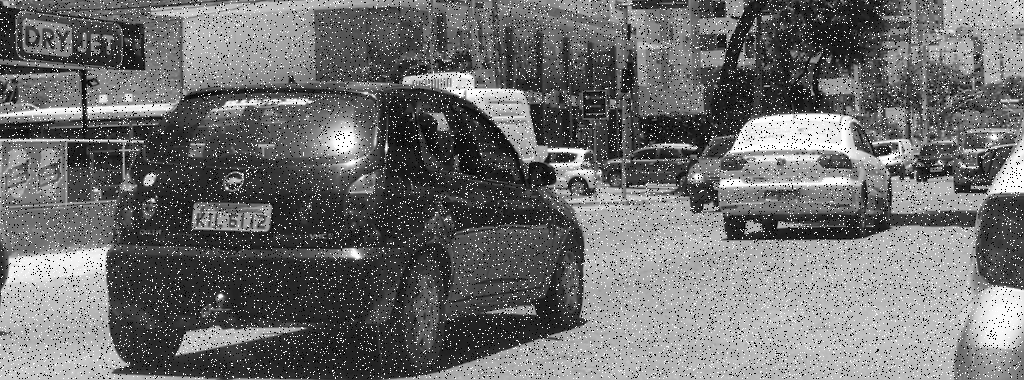
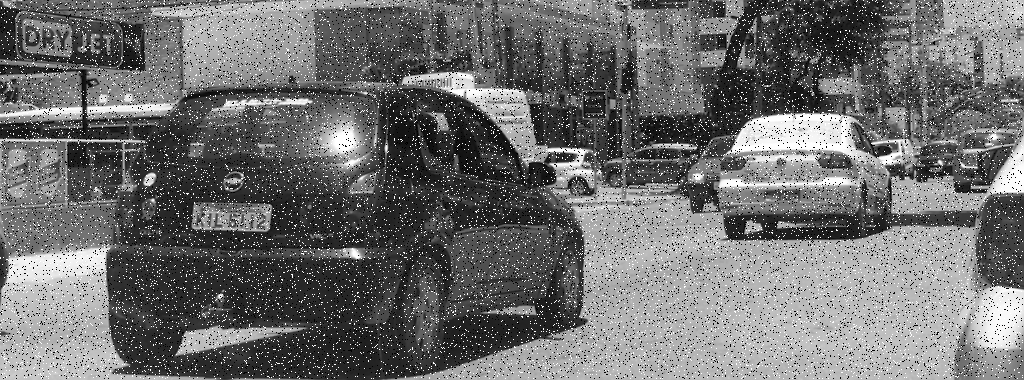
K-means, Otsu, Adaptive Threshold

Changed region(s): [[0.0, 0.0, 1.0, 1.0]]

diff --git a/src/controller/alpr.py b/src/controller/alpr.py
@@ -54,14 +54,20 @@ class Alpr:
 
         histogram = Histogram.discrete_histogram(img)
 
-        print('  - K-means')
         groups = 2
+        print('  - K-means [k='+str(groups)+']')
         km = Kmeans(groups, histogram)
         clusters = km.process()
 
-        print('  - Thresold')
+        print('  - Threshold')
         th = Threshold(img, clusters, groups)
         threshold = th.process()
+        cv.imwrite('../bin/' + self.img_name + '-kmeans.png', threshold)
+
+        threshold = cv.adaptiveThreshold(img, 255.0, cv.ADAPTIVE_THRESH_GAUSSIAN_C, cv.THRESH_BINARY_INV, 19, 9)
+        cv.imwrite('../bin/' + self.img_name + '-gaussian.png', threshold)
+
+        ret2, threshold = cv.threshold(img, 0, 255, cv.THRESH_BINARY + cv.THRESH_OTSU)
 
         return threshold
 

diff --git a/src/model/threshold.py b/src/model/threshold.py
@@ -1,9 +1,8 @@
 import numpy as np
-import cv2
 
 
 class Threshold:
-    def __init__(self, img, clusters, groups):
+    def __init__(self, img, clusters=None, groups=None):
         self.img = img
         self.clusters = clusters
         self.groups = groups
@@ -18,6 +17,9 @@ class Threshold:
                 threshold[i, j] = self.get_cluster_value(pixel)
 
         return threshold
+
+    def process_otsu(self):
+        pass
 
     def get_cluster_value(self, pixel):
         values = np.linspace(0, 255, self.groups, dtype=np.int)

diff --git a/src/model/kmeans.py b/src/model/kmeans.py
@@ -1,5 +1,4 @@
 import numpy as np
-import cv2
 
 
 class Kmeans:
